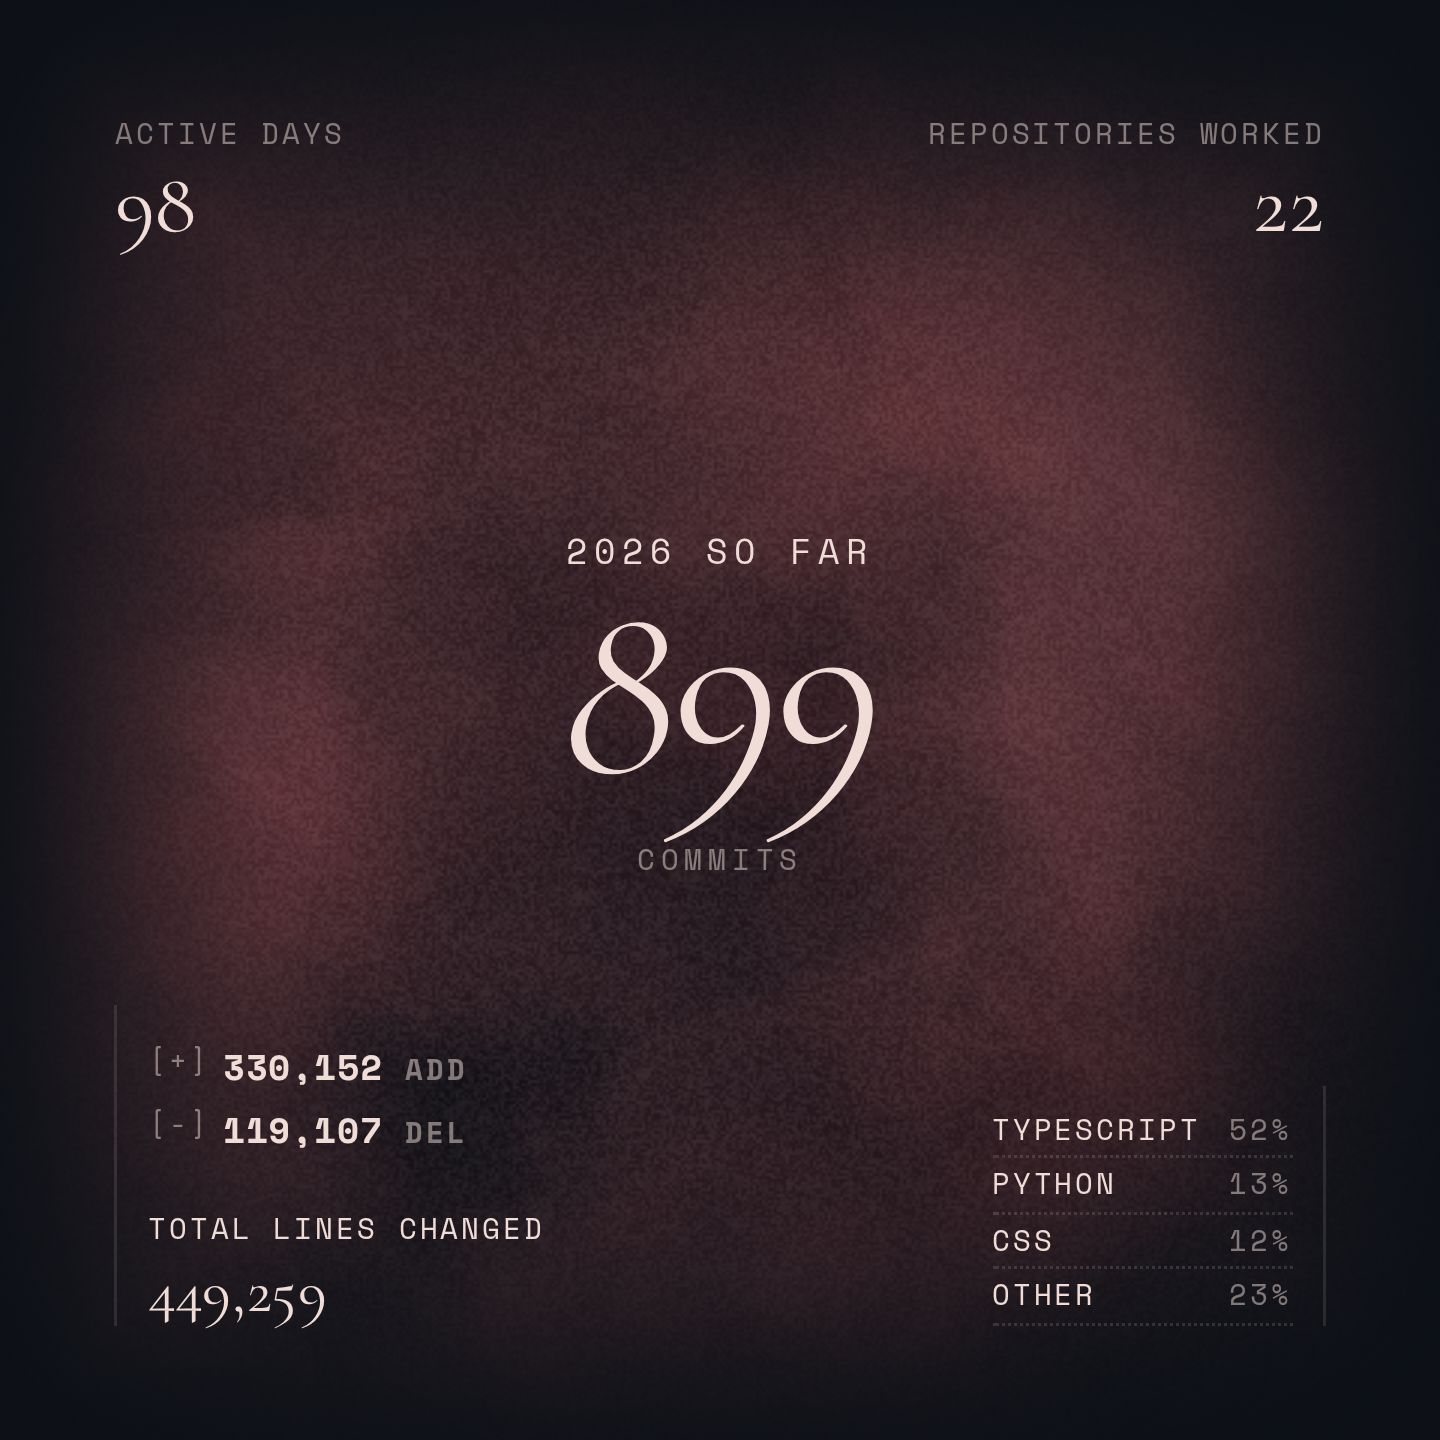
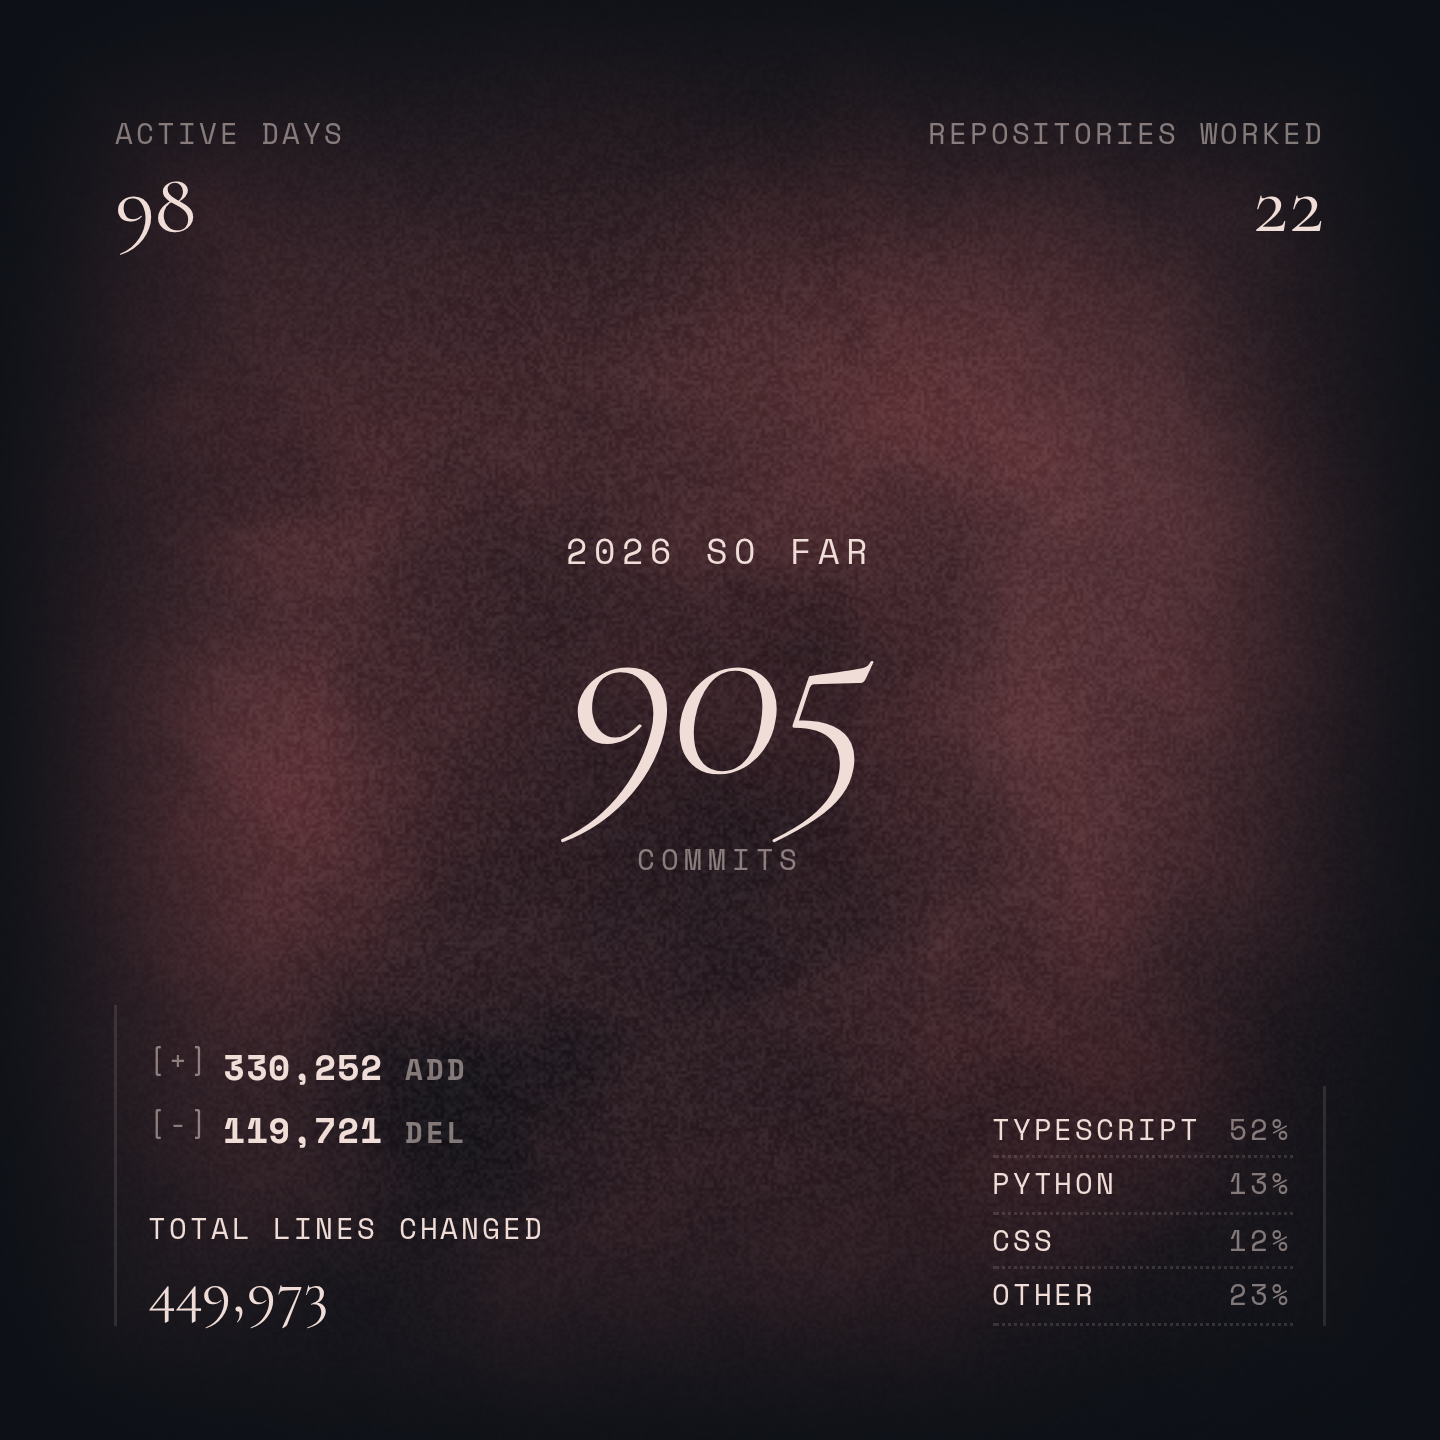
chore: update profile stats

diff --git a/assets/activity-card-preview.html b/assets/activity-card-preview.html
@@ -237,7 +237,7 @@
             <div class="center-display" vid="23">
                 <div class="crosshair" vid="24"></div>
                 <div class="mono-tiny" style="position: absolute; top: calc(50% - 64px); left: 50%; transform: translateX(-50%); letter-spacing: 0.2em; white-space: nowrap; font-size: 0.72rem; color: var(--text-cream); opacity: 1;">2026 SO FAR</div>
-                <div class="serif-display commits-value" vid="25">899</div>
+                <div class="serif-display commits-value" vid="25">905</div>
                 <div class="mono-tiny" style="letter-spacing: 0.2em; margin-top: 13px;" vid="27">COMMITS</div>
             </div>
 
@@ -245,16 +245,16 @@
                 <div class="data-group" vid="29">
                     <div class="data-row" vid="30">
                         <span class="mono-tiny" vid="31">[+]</span>
-                        <span class="mono-value" vid="32">330,152 <span class="mono-tiny" style="color:var(--text-muted)" vid="33">ADD</span></span>
+                        <span class="mono-value" vid="32">330,252 <span class="mono-tiny" style="color:var(--text-muted)" vid="33">ADD</span></span>
                     </div>
                     <div class="data-row" vid="34">
                         <span class="mono-tiny" vid="35">[-]</span>
-                        <span class="mono-value" vid="36">119,107 <span class="mono-tiny" style="color:var(--text-muted)" vid="37">DEL</span></span>
+                        <span class="mono-value" vid="36">119,721 <span class="mono-tiny" style="color:var(--text-muted)" vid="37">DEL</span></span>
                     </div>
                 </div>
                 <div class="data-group" style="margin-top: 18px;" vid="38">
                     <div class="mono-tiny" style="color: var(--text-cream);" vid="39">TOTAL LINES CHANGED</div>
-                    <div class="serif-display" style="font-size: 1.3rem; margin-top: 4px;" vid="40">449,259</div>
+                    <div class="serif-display" style="font-size: 1.3rem; margin-top: 4px;" vid="40">449,973</div>
                 </div>
             </div>
 

diff --git a/README.md b/README.md
@@ -12,5 +12,5 @@ currently studying cs+math @ stanford, scouting @ afore capital, and automating 
   <img src="./assets/activity-card.png" alt="2026 GitHub activity specimen" width="100%" />
 </p>
 
-<p align="center"><sub>Generated from GitHub commit data for `kyan-yang` for 2026 so far. Updated 2026-07-13 10:51 UTC.</sub></p>
+<p align="center"><sub>Generated from GitHub commit data for `kyan-yang` for 2026 so far. Updated 2026-07-14 09:47 UTC.</sub></p>
 <!-- profile-stats:end -->
